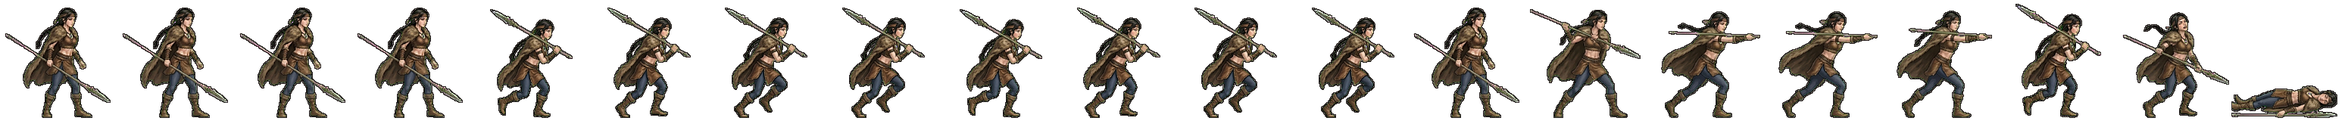
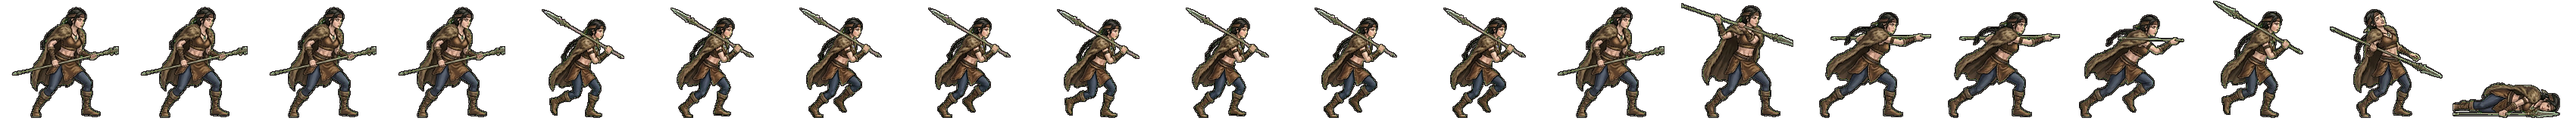
전투 띠 새로: mdallae 동작 띠 다시 — 형이 구움 (굽기 꾸러미 · 검수 1·3번) (형 11-08)
Claude-Session: https://claude.ai/code/session_01TRiuNAG8xSjdmjCFpc8Rd5

Changed region(s): [[0.0, 0.0312, 1.0, 0.9688]]

diff --git a/src/ui/realm/battle-strikes.ts b/src/ui/realm/battle-strikes.ts
@@ -143,7 +143,7 @@ const CONTACT: Readonly<Record<string, [number, number, number]>> = {
   'gen-haebi': [14, 0.87, 0.53], 'gen-heo': [14, 0.94, 0.46], 'gen-hyeokgeose': [14, 0.83, 0.94],
   'gen-hyeopbo': [14, .93, .21], 'gen-malgalgi': [14, 0.88, 0.28], 'gen-mari': [14, .98, .47],
   'gen-oi': [14, .98, .48], 'gen-onjo': [14, 0.83, 0.93], 'gen-soebi': [14, 0.80, 0.95],
-  'gen-soseono': [14, 0.92, 0.31], 'gen-maryeo': [14, 0.91, 0.79], 'gen-horselord': [14, 0.89, 0.25], 'gen-olddaeso': [14, 0.93, 0.91], 'gen-maro': [14, 0.97, 0.49], 'gen-gwaeyu': [14, 0.98, 0.71], 'gen-daemusin': [14, 0.91, 0.38], 'gen-tahae': [14, 0.91, 0.74], 'gen-ocheongan': [14, 0.82, 0.49], 'gen-yusugan': [14, 0.95, 0.70], 'gen-odogan': [14, 0.93, 0.28], 'gen-pidogan': [14, 0.94, 0.75], 'gen-yeodogan': [14, 0.93, 0.57], 'gen-adogan': [14, 0.95, 0.41], 'gen-musoe': [14, 0.94, 0.39], 'gen-suro': [14, 0.82, 0.53], 'gen-waechief': [14, 0.95, 0.68], 'gen-hojin': [14, 0.97, 0.64], 'gen-jita': [14, 0.94, 0.34], 'gen-guryema': [14, 0.89, 0.28], 'gen-jibaekho': [14, 0.97, 0.33], 'gen-sobeol': [14, 0.95, 0.33], 'gen-alpyeong': [14, 0.95, 0.54], 'gen-hogong': [14, 0.98, 0.27], 'gen-geumbawi': [14, 0.91, 0.92], 'gen-keundol': [14, 0.90, 0.68], 'gen-jinha': [14, 0.76, 0.93], 'gen-duman': [14, 0.97, 0.39], 'gen-gomok': [14, 0.94, 0.57], 'gen-hneoul': [14, 0.92, 0.27], 'gen-tneoul': [14, 0.84, 0.57], 'gen-sdallae': [14, 0.89, 0.29], 'gen-yucheongan': [14, 0.97, 0.64], 'gen-sincheongan': [14, 0.91, 0.71], 'gen-singwigan': [14, 0.91, 0.27], 'gen-mdallae': [14, 0.98, 0.30], 'gen-mulbeom': [14, 0.97, 0.36], 'gen-beomi': [14, 0.88, 0.43], 'gen-danbi': [14, 0.90, 0.30], 'gen-mulsae': [14, 0.93, 0.36], 'gen-darae': [14, 0.89, 0.29], 'gen-mir': [14, 0.91, 0.33], 'gen-wan': [14, 0.94, 0.30], 'gen-gom': [14, 0.94, 0.74], 'gen-sagong': [14, 0.79, 0.96], 'gen-halla': [14, 0.86, 0.46], 'gen-areum': [14, 0.86, 0.65], 'gen-dokmudeom': [14, 0.92, 0.29], 'gen-beom': [14, 0.98, 0.28], 'gen-baram': [14, 0.96, 0.24], 'gen-goeun': [14, 0.95, 0.66], 'gen-byeol': [14, 0.76, 0.96], 'gen-sinneoul': [14, 0.95, 0.33], 'gen-haesol': [14, 0.95, 0.39], 'gen-odi': [14, 0.95, 0.37], 'gen-irang': [14, 0.86, 0.30], 'gen-dalli': [14, 0.89, 0.32], 'gen-bakdal': [14, 0.94, 0.27], 'gen-noeul': [14, 0.88, 0.27], 'gen-maehwa': [14, 0.90, 0.31], 'gen-gaon': [14, 0.98, 0.48], 'gen-eomni': [14, 0.96, 0.42], 'gen-nuri': [14, 0.98, 0.42], 'gen-bira': [14, 0.88, 0.42], 'gen-gureum': [14, 0.98, 0.42],
+  'gen-soseono': [14, 0.92, 0.31], 'gen-maryeo': [14, 0.91, 0.79], 'gen-horselord': [14, 0.89, 0.25], 'gen-olddaeso': [14, 0.93, 0.91], 'gen-maro': [14, 0.97, 0.49], 'gen-gwaeyu': [14, 0.98, 0.71], 'gen-daemusin': [14, 0.91, 0.38], 'gen-tahae': [14, 0.91, 0.74], 'gen-ocheongan': [14, 0.82, 0.49], 'gen-yusugan': [14, 0.95, 0.70], 'gen-odogan': [14, 0.93, 0.28], 'gen-pidogan': [14, 0.94, 0.75], 'gen-yeodogan': [14, 0.93, 0.57], 'gen-adogan': [14, 0.95, 0.41], 'gen-musoe': [14, 0.94, 0.39], 'gen-suro': [14, 0.82, 0.53], 'gen-waechief': [14, 0.95, 0.68], 'gen-hojin': [14, 0.97, 0.64], 'gen-jita': [14, 0.94, 0.34], 'gen-guryema': [14, 0.89, 0.28], 'gen-jibaekho': [14, 0.97, 0.33], 'gen-sobeol': [14, 0.95, 0.33], 'gen-alpyeong': [14, 0.95, 0.54], 'gen-hogong': [14, 0.98, 0.27], 'gen-geumbawi': [14, 0.91, 0.92], 'gen-keundol': [14, 0.90, 0.68], 'gen-jinha': [14, 0.76, 0.93], 'gen-duman': [14, 0.97, 0.39], 'gen-gomok': [14, 0.94, 0.57], 'gen-hneoul': [14, 0.92, 0.27], 'gen-tneoul': [14, 0.84, 0.57], 'gen-sdallae': [14, 0.89, 0.29], 'gen-yucheongan': [14, 0.97, 0.64], 'gen-sincheongan': [14, 0.91, 0.71], 'gen-singwigan': [14, 0.91, 0.27], 'gen-mdallae': [14, 0.98, 0.29], 'gen-mulbeom': [14, 0.97, 0.36], 'gen-beomi': [14, 0.88, 0.43], 'gen-danbi': [14, 0.90, 0.30], 'gen-mulsae': [14, 0.93, 0.36], 'gen-darae': [14, 0.89, 0.29], 'gen-mir': [14, 0.91, 0.33], 'gen-wan': [14, 0.94, 0.30], 'gen-gom': [14, 0.94, 0.74], 'gen-sagong': [14, 0.79, 0.96], 'gen-halla': [14, 0.86, 0.46], 'gen-areum': [14, 0.86, 0.65], 'gen-dokmudeom': [14, 0.92, 0.29], 'gen-beom': [14, 0.98, 0.28], 'gen-baram': [14, 0.96, 0.24], 'gen-goeun': [14, 0.95, 0.66], 'gen-byeol': [14, 0.76, 0.96], 'gen-sinneoul': [14, 0.95, 0.33], 'gen-haesol': [14, 0.95, 0.39], 'gen-odi': [14, 0.95, 0.37], 'gen-irang': [14, 0.86, 0.30], 'gen-dalli': [14, 0.89, 0.32], 'gen-bakdal': [14, 0.94, 0.27], 'gen-noeul': [14, 0.88, 0.27], 'gen-maehwa': [14, 0.90, 0.31], 'gen-gaon': [14, 0.98, 0.48], 'gen-eomni': [14, 0.96, 0.42], 'gen-nuri': [14, 0.98, 0.42], 'gen-bira': [14, 0.88, 0.42], 'gen-gureum': [14, 0.98, 0.42],
   'gen-biryu': [14, 0.90, 0.35], 'gen-geumha': [14, 0.94, 0.61], 'gen-geota': [14, 0.86, 0.47], 'gen-soebo': [14, 0.87, 0.57],
   'gen-gaennae': [14, 249 / 264, 47 / 160],
   'gen-budeul': [14, 266 / 280, 51 / 160],

diff --git a/src/realm/data/art.ts b/src/realm/data/art.ts
@@ -537,7 +537,7 @@ export const GEN_ANIM: Readonly<Partial<Record<string, { ar: number; body: numbe
   danbi: { ar: 146 / 160, body: 0.906, bow: true }, // 11-08 초상대로 다시 (형: 「투구 쓰고 원본과 다르다」 · 제미나이 걷기 4×2 + 동작 4×2 → 20컷 · assets_src/realm/gemini/generals2) · 11-08 처음 · 사로 단비(흰 끈 말총머리·초록 테 흰 짧은 윗옷·맥궁 · 준비→만작→발사→피격→쓰러짐)
   beomi: { ar: 159 / 160, body: 0.900 }, // 11-08 초상대로 다시 (형: 「투구 쓰고 원본과 다르다」 · 제미나이 걷기 4×2 + 동작 4×2 → 20컷 · assets_src/realm/gemini/generals2) · 11-08 처음 · 진지 범이(헝클어진 짧은 머리·범 가죽 짧은 윗옷과 치마·넓은 쇠 창 찌르기 · 맨발)
   mulbeom: { ar: 155 / 160, body: 0.900 }, // 11-08 초상대로 다시 (형: 「투구 쓰고 원본과 다르다」 · 제미나이 걷기 4×2 + 동작 4×2 → 20컷 · assets_src/realm/gemini/generals2) · 11-08 처음 · 북옥저 물범(점박이 물범 가죽 두건 망토·짙은 남색 짧은 윗옷·밧줄·작살 찌르기)
-  mdallae: { ar: 155 / 160, body: 0.906 }, // 11-08 초상대로 다시 (형: 「투구 쓰고 원본과 다르다」 · 제미나이 걷기 4×2 + 동작 4×2 → 20컷 · assets_src/realm/gemini/generals2) · 11-08 처음 · 목지 달래(머리띠·긴 땋은 머리·갈색 털 망토·짧은 가죽 윗옷·창 찌르기)
+  mdallae: { ar: 170 / 160, body: 0.906 }, // 11-08 초상대로 다시 (형: 「투구 쓰고 원본과 다르다」 · 제미나이 걷기 4×2 + 동작 4×2 → 20컷 · assets_src/realm/gemini/generals2) · 11-08 처음 · mdallae 동작 띠 다시 — 형이 구움 (굽기 꾸러미 · 검수 1·3번)
   singwigan: { ar: 167 / 160, body: 0.900 }, // 11-08 초상대로 다시 (형: 「투구 쓰고 원본과 다르다」 · 제미나이 걷기 4×2 + 동작 4×2 → 20컷 · assets_src/realm/gemini/generals2) · 11-08 처음 · 가락 신귀간(긴 땋은 머리·크림빛 짧은 윗옷·청록 띠·조개 그물 주머니·청동 칼 찌르기)
   sincheongan: { ar: 162 / 160, body: 0.906 }, // 11-08 초상대로 다시 (형: 「투구 쓰고 원본과 다르다」 · 제미나이 걷기 4×2 + 동작 4×2 → 20컷 · assets_src/realm/gemini/generals2) · 11-08 처음 · 가락 신천간(머리띠·흰 겉옷·비취 목걸이·청동 방울 지팡이 내려치기)
   yucheongan: { ar: 147 / 160, body: 0.900 }, // 11-08 초상대로 다시 (형: 「투구 쓰고 원본과 다르다」 · 제미나이 걷기 4×2 + 동작 4×2 → 20컷 · assets_src/realm/gemini/generals2) · 11-08 처음 · 가락 유천간 · 푸른 저고리·붉은 띠·나무 지팡이
